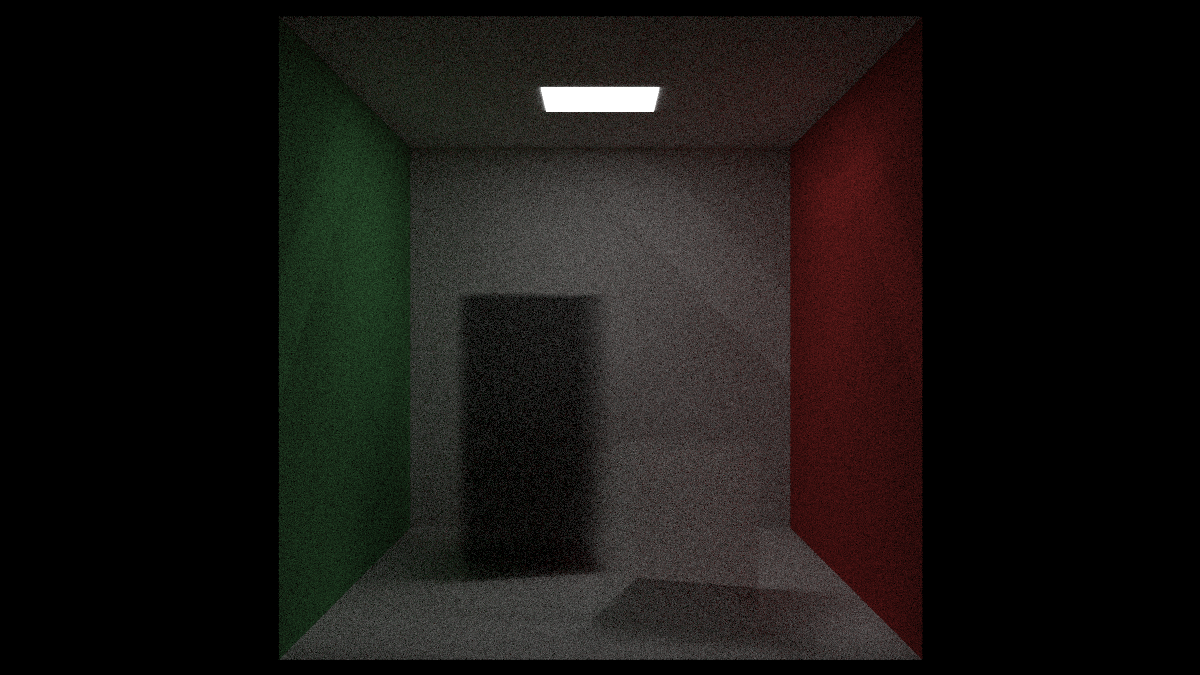
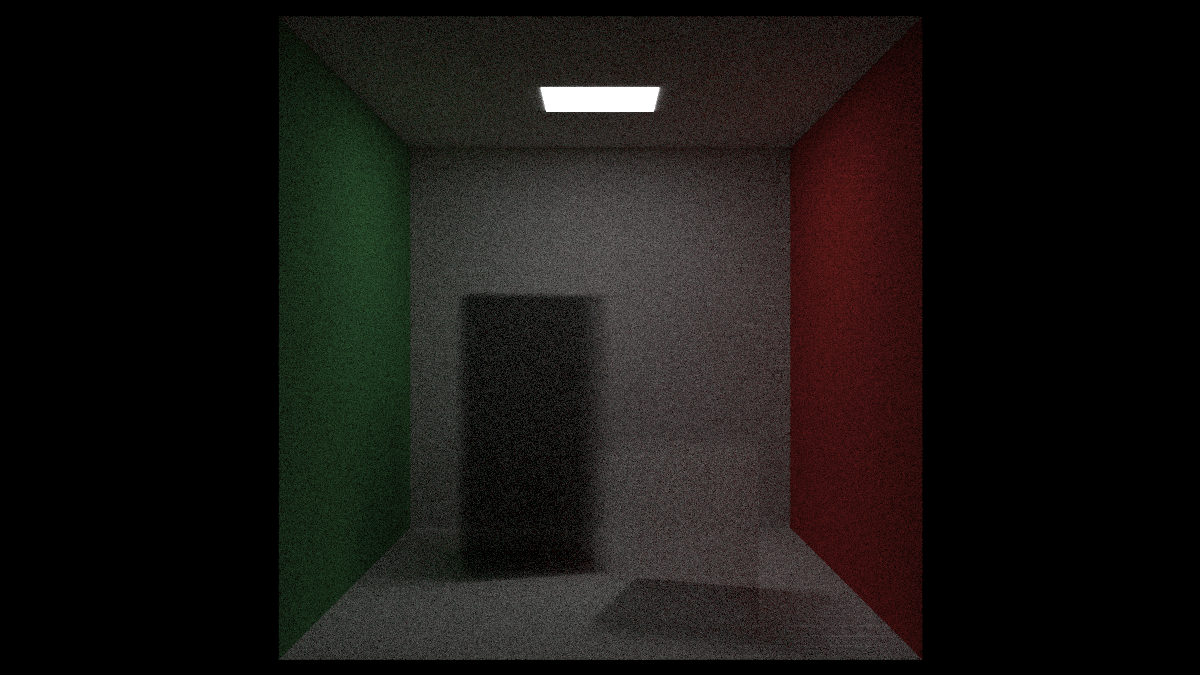
all features

Changed region(s): [[0.2467, 0.0311, 0.7708, 0.9956]]

diff --git a/scenelib.h b/scenelib.h
@@ -16,9 +16,9 @@ void two_noise_spheres_with_lighting(hittable_list &world);
 void quads(hittable_list &world);
 void cornell_box(hittable_list &world);
 void smoke_cornell(hittable_list &world);
-void final_scene(hittable_list &world);
+void all_features(hittable_list &world);
 
-auto SceneFunc = quads;
+auto SceneFunc = all_features;
 
 void random_spheres(hittable_list &world)
 {
@@ -169,15 +169,60 @@ void smoke_cornell(hittable_list &world)
     world.add(make_shared<constant_medium>(box2, 0.01, color(1, 1, 1)));
 }
 
-void final_scene(hittable_list &world)
+void all_features(hittable_list &world)
 {
-    hittable_list boxes;
+    hittable_list boxes_ground;
     auto ground = make_shared<lambertian>(color(0.48, 0.83, 0.53));
 
     int box_per_side = 20;
     for (int i = 0; i < box_per_side; ++i)
         for (int j = 0; j < box_per_side; ++j)
         {
+            auto w = 100.0;
+            auto x0 = -1000.0 + i * w;
+            auto z0 = -1000.0 + j * w;
+            auto y0 = 0.0;
 
+            auto x1 = x0 + w;
+            auto y1 = random_double(1, 101);
+            auto z1 = z0 + w;
+
+            boxes_ground.add(cube(point3(x0, y0, z0), point3(x1, y1, z1), ground));
         }
+
+    world.add(make_shared<hittable_list>(boxes_ground));
+
+    auto light = make_shared<diffuse_light>(color(7, 7, 7));
+    world.add(make_shared<quad>(point3(123, 554, 147), vec3(300, 0, 0), vec3(0, 0, 265), light));
+
+    auto center1 = point3(400, 400, 200);
+    auto center2 = center1 + vec3(30, 0, 0);
+    auto sphere_mat = make_shared<lambertian>(color(0.7, 0.3, 0.1));
+    world.add(make_shared<sphere>(center1, center2, 50, sphere_mat));
+
+    world.add(make_shared<sphere>(point3(260, 150, 45), 50, make_shared<dielectric>(1.5)));
+    world.add(make_shared<sphere>(point3(0, 150, 145), 50, make_shared<metal>(color(0.8, 0.8, 0.9), 1.0)));
+
+    auto mist_boundary = make_shared<sphere>(point3(360, 150, 145), 70, make_shared<dielectric>(1.5));
+    world.add(mist_boundary);
+    world.add(make_shared<constant_medium>(mist_boundary, 0.2, color(0.2, 0.4, 0.9)));
+    mist_boundary = make_shared<sphere>(point3(0, 0, 0), 5000, make_shared<dielectric>(1.5));
+    world.add(make_shared<constant_medium>(mist_boundary, 1e-4, color(1, 1, 1)));
+
+    auto earth_mat = make_shared<lambertian>(make_shared<image_texture>("earthmap.jpg"));
+    world.add(make_shared<sphere>(point3(400, 200, 400), 100, earth_mat));
+
+    auto perlin_tex = make_shared<noise_texture>(0.1);
+    world.add(make_shared<sphere>(point3(220, 280, 300), 80, make_shared<lambertian>(perlin_tex)));
+
+    hittable_list boxes_cube;
+    auto white = make_shared<lambertian>(color(0.73, 0.73, 0.73));
+    int n = 1000;
+    for (int i = 0; i < n; ++i)
+        boxes_cube.add(make_shared<sphere>(point3::random(0, 165), 10, white));
+
+    world.add(make_shared<translate>(
+        make_shared<rotate_y>(
+            make_shared<hittable_list>(boxes_cube), 15),
+        vec3(-100, 270, 395)));
 }

diff --git a/main.cpp b/main.cpp
@@ -14,24 +14,23 @@ int main(int argc, char const *argv[])
     SceneFunc(world);
 
     // Building acceleration structure(BVH Tree)
-    // world = hittable_list(make_shared<bvh_node>(world));
+    world = hittable_list(make_shared<bvh_node>(world));
 
     camera cam;
 
-    cam.aspect_ratio = 16.0 / 9.0;
-    cam.image_width = 1200;
+    cam.aspect_ratio = 1.0;
+    cam.image_width = 800;
     cam.samplers_per_pixel = argc > 1 ? atoi(argv[argc - 1]) : 8; // samplers
     cam.ray_gen_probability = 0.96;
 
     cam.vfov = 40;
-    cam.lookfrom = point3(278, 278, -800);
+    cam.lookfrom = point3(478, 278, -600);
     cam.lookat = point3(278, 278, 0);
     cam.vup = vec3(0, 1, 0);
 
     // cam.defocus_angle = 0.6;
     // cam.focus_dist = 10.0;
     // cam.frame_duration = 1.0;
-    cam.background = color(1, 1, 1);
     clog << "Samplers: " << cam.samplers_per_pixel << '\n';
 
     cam.render(world);

diff --git a/rtweekend.h b/rtweekend.h
@@ -21,8 +21,9 @@ inline double degree2radius(double degrees) { return degrees / 180.0 * PI; }
 // Return a real in [0, 1)
 inline double random_double()
 {
+    static std::random_device rd;
+    static std::mt19937 generator(rd());
     static std::uniform_real_distribution<> distribution(0.0, 1.0);
-    static std::mt19937 generator;
     return distribution(generator);
 }
 

diff --git a/README.md b/README.md
@@ -31,3 +31,5 @@ Here comes some images rendered from the little Ray Tracer :)
 ![Cornell Box](./img/readme/readme2.png "Cornell Box, 512 Samplers")
 
 ![Cornell Box Smoke](./img/readme/readme3.png "Cornell Box Smoke, 512 Samplers")
+
+![Image with all Features](./img/readme/readme4.png "all Features, 10240 Samplers")
